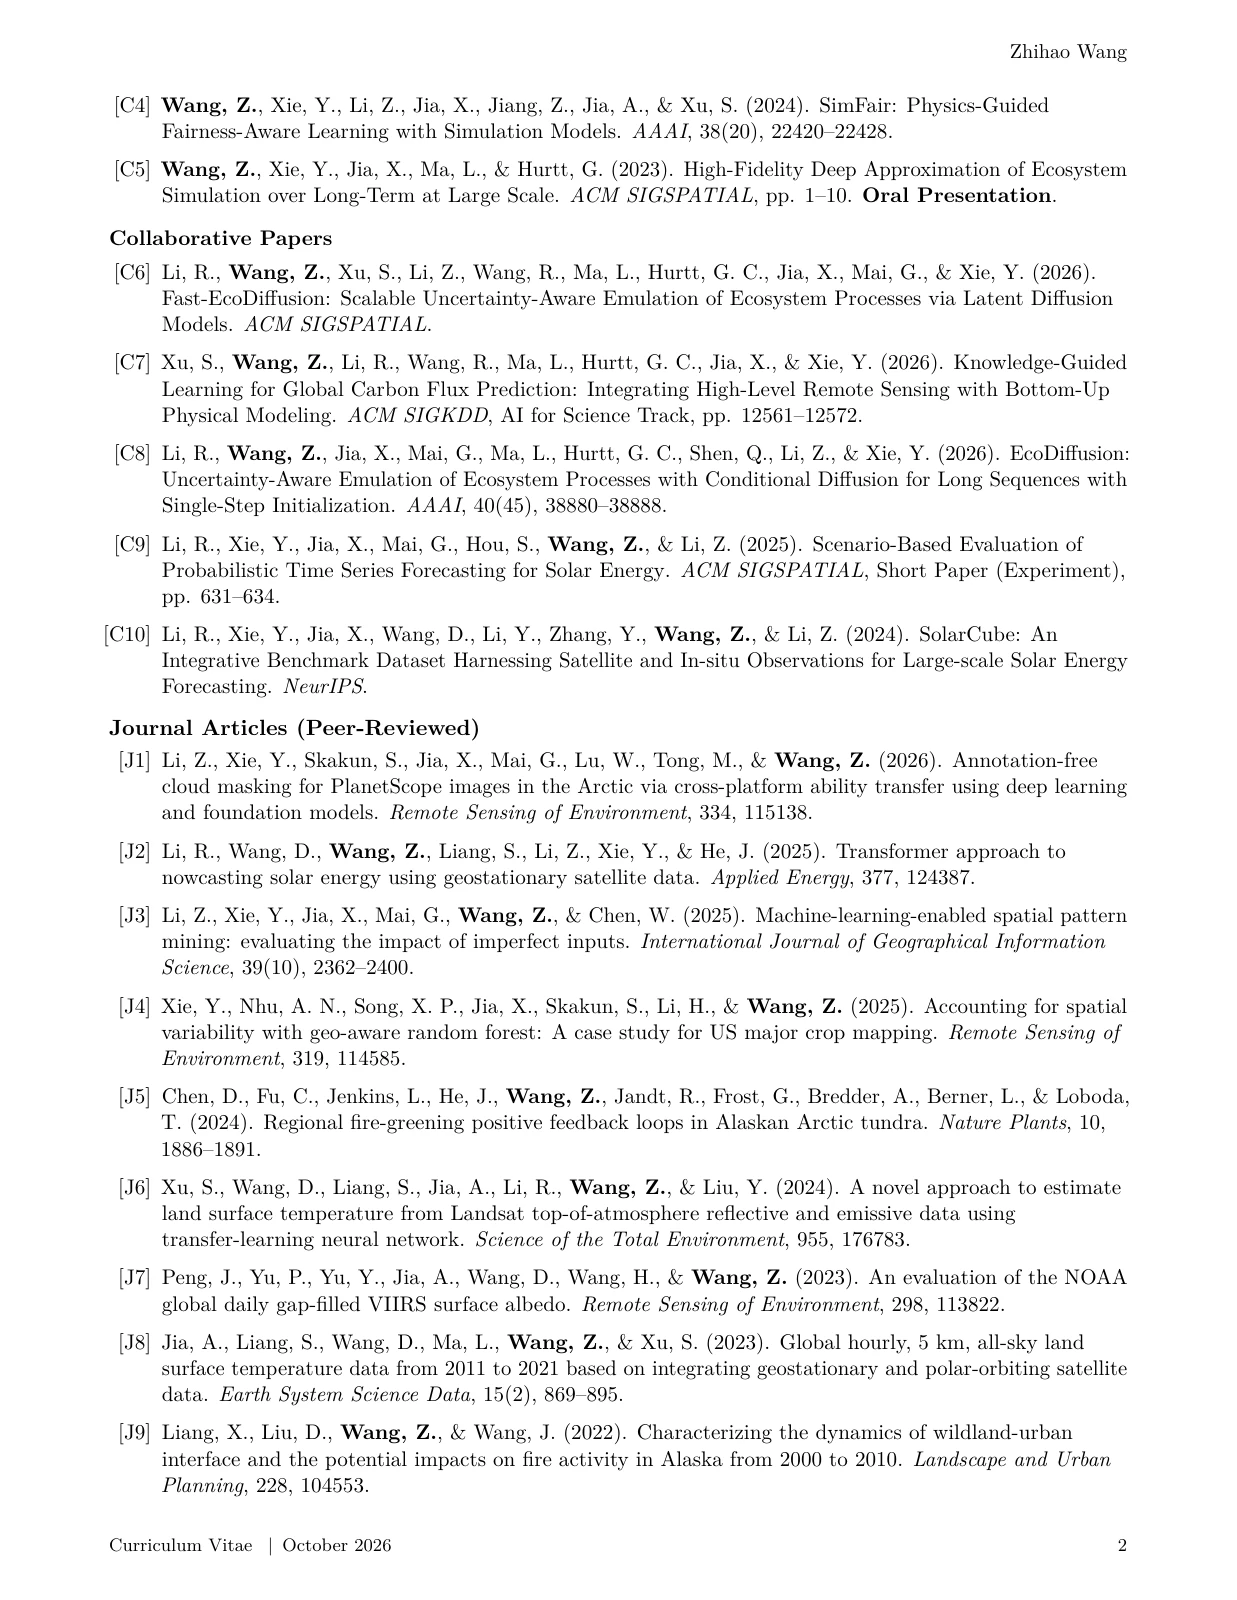
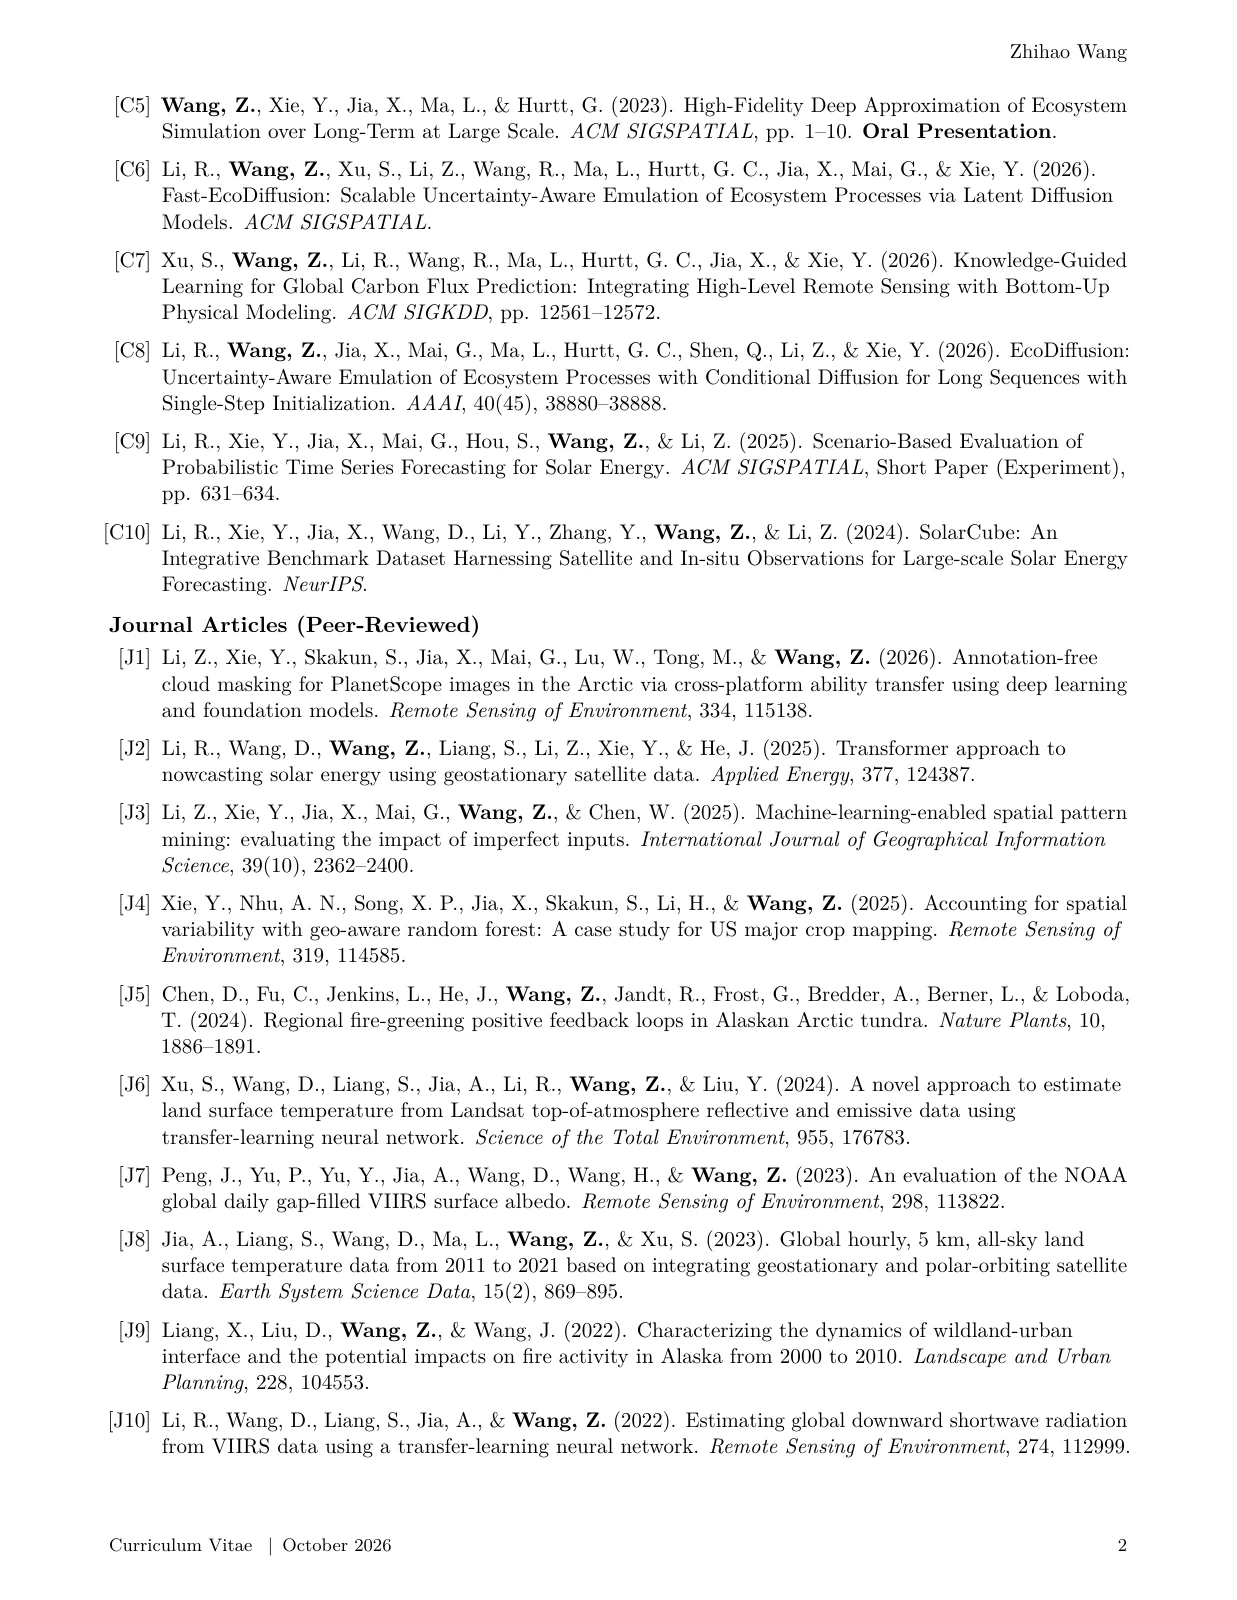
Simplify academic CV conference publication list

Changed region(s): [[0.0922, 0.0625, 0.9216, 0.9375]]

diff --git a/resume/index.html b/resume/index.html
@@ -91,18 +91,18 @@
         <header class="document-toolbar">
           <div class="document-toolbar-heading"><h2 id="cv-panel-title">Academic CV</h2><p>5 pages <span aria-hidden="true">·</span> PDF</p></div>
           <div class="document-actions">
-            <a class="document-open" href="/assets/pdf/Zhihao_Wang_Academic_CV.pdf?v=46afca597646">Open PDF <span aria-hidden="true">↗</span></a>
-            <a class="document-download" href="/assets/pdf/Zhihao_Wang_Academic_CV.pdf?v=46afca597646" download="Zhihao_Wang_Academic_CV.pdf" aria-label="Download academic CV"><i class="fas fa-arrow-down" aria-hidden="true"></i> Download</a>
+            <a class="document-open" href="/assets/pdf/Zhihao_Wang_Academic_CV.pdf?v=d2b816d1cd77">Open PDF <span aria-hidden="true">↗</span></a>
+            <a class="document-download" href="/assets/pdf/Zhihao_Wang_Academic_CV.pdf?v=d2b816d1cd77" download="Zhihao_Wang_Academic_CV.pdf" aria-label="Download academic CV"><i class="fas fa-arrow-down" aria-hidden="true"></i> Download</a>
           </div>
         </header>
-        <div class="document-stage" data-page-count="5" data-preview-prefix="/assets/img/documents/academic-cv-preview" data-preview-version="46afca597646" data-document-label="academic CV">
+        <div class="document-stage" data-page-count="5" data-preview-prefix="/assets/img/documents/academic-cv-preview" data-preview-version="d2b816d1cd77" data-document-label="academic CV">
           <div class="preview-pagination" role="group" aria-label="Academic CV preview pages">
             <button class="preview-page-button" type="button" data-page-step="-1" aria-label="Previous page of academic CV" hidden disabled><i class="fas fa-chevron-left" aria-hidden="true"></i> Previous</button>
             <span class="preview-page-status" role="status" aria-live="polite" aria-atomic="true">Page 1 of 5</span>
             <button class="preview-page-button" type="button" data-page-step="1" aria-label="Next page of academic CV" hidden>Next <i class="fas fa-chevron-right" aria-hidden="true"></i></button>
           </div>
-          <a class="paper-preview" href="/assets/pdf/Zhihao_Wang_Academic_CV.pdf?v=46afca597646" aria-label="Open full academic CV">
-            <img src="/assets/img/documents/academic-cv-preview.webp?v=46afca597646" alt="First page of Zhihao Wang’s academic CV" width="1237" height="1600" loading="lazy" decoding="async">
+          <a class="paper-preview" href="/assets/pdf/Zhihao_Wang_Academic_CV.pdf?v=d2b816d1cd77" aria-label="Open full academic CV">
+            <img src="/assets/img/documents/academic-cv-preview.webp?v=d2b816d1cd77" alt="First page of Zhihao Wang’s academic CV" width="1237" height="1600" loading="lazy" decoding="async">
             <span class="preview-open" aria-hidden="true">View full CV <span>↗</span></span>
           </a>
           <p class="preview-error" role="alert" hidden>This page preview could not be loaded. Use Open PDF to read the full document.</p>
